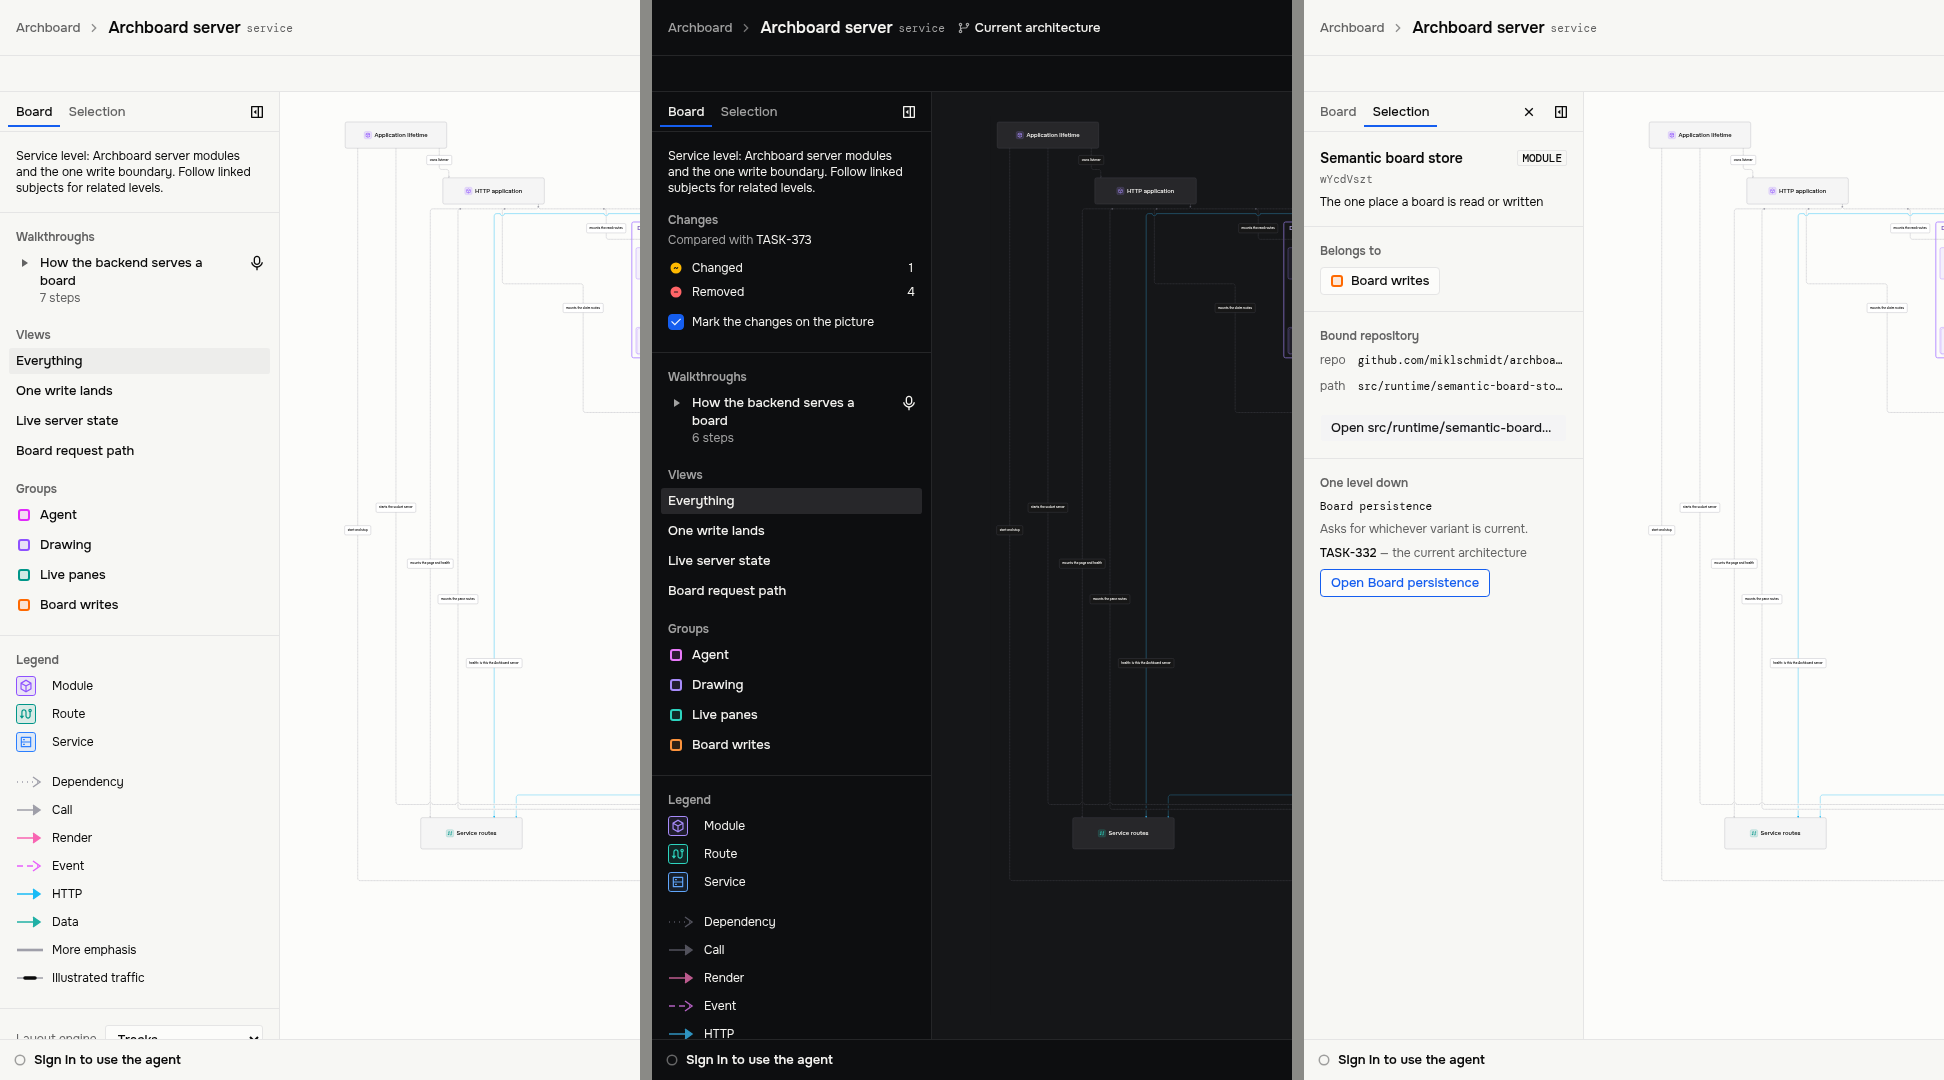
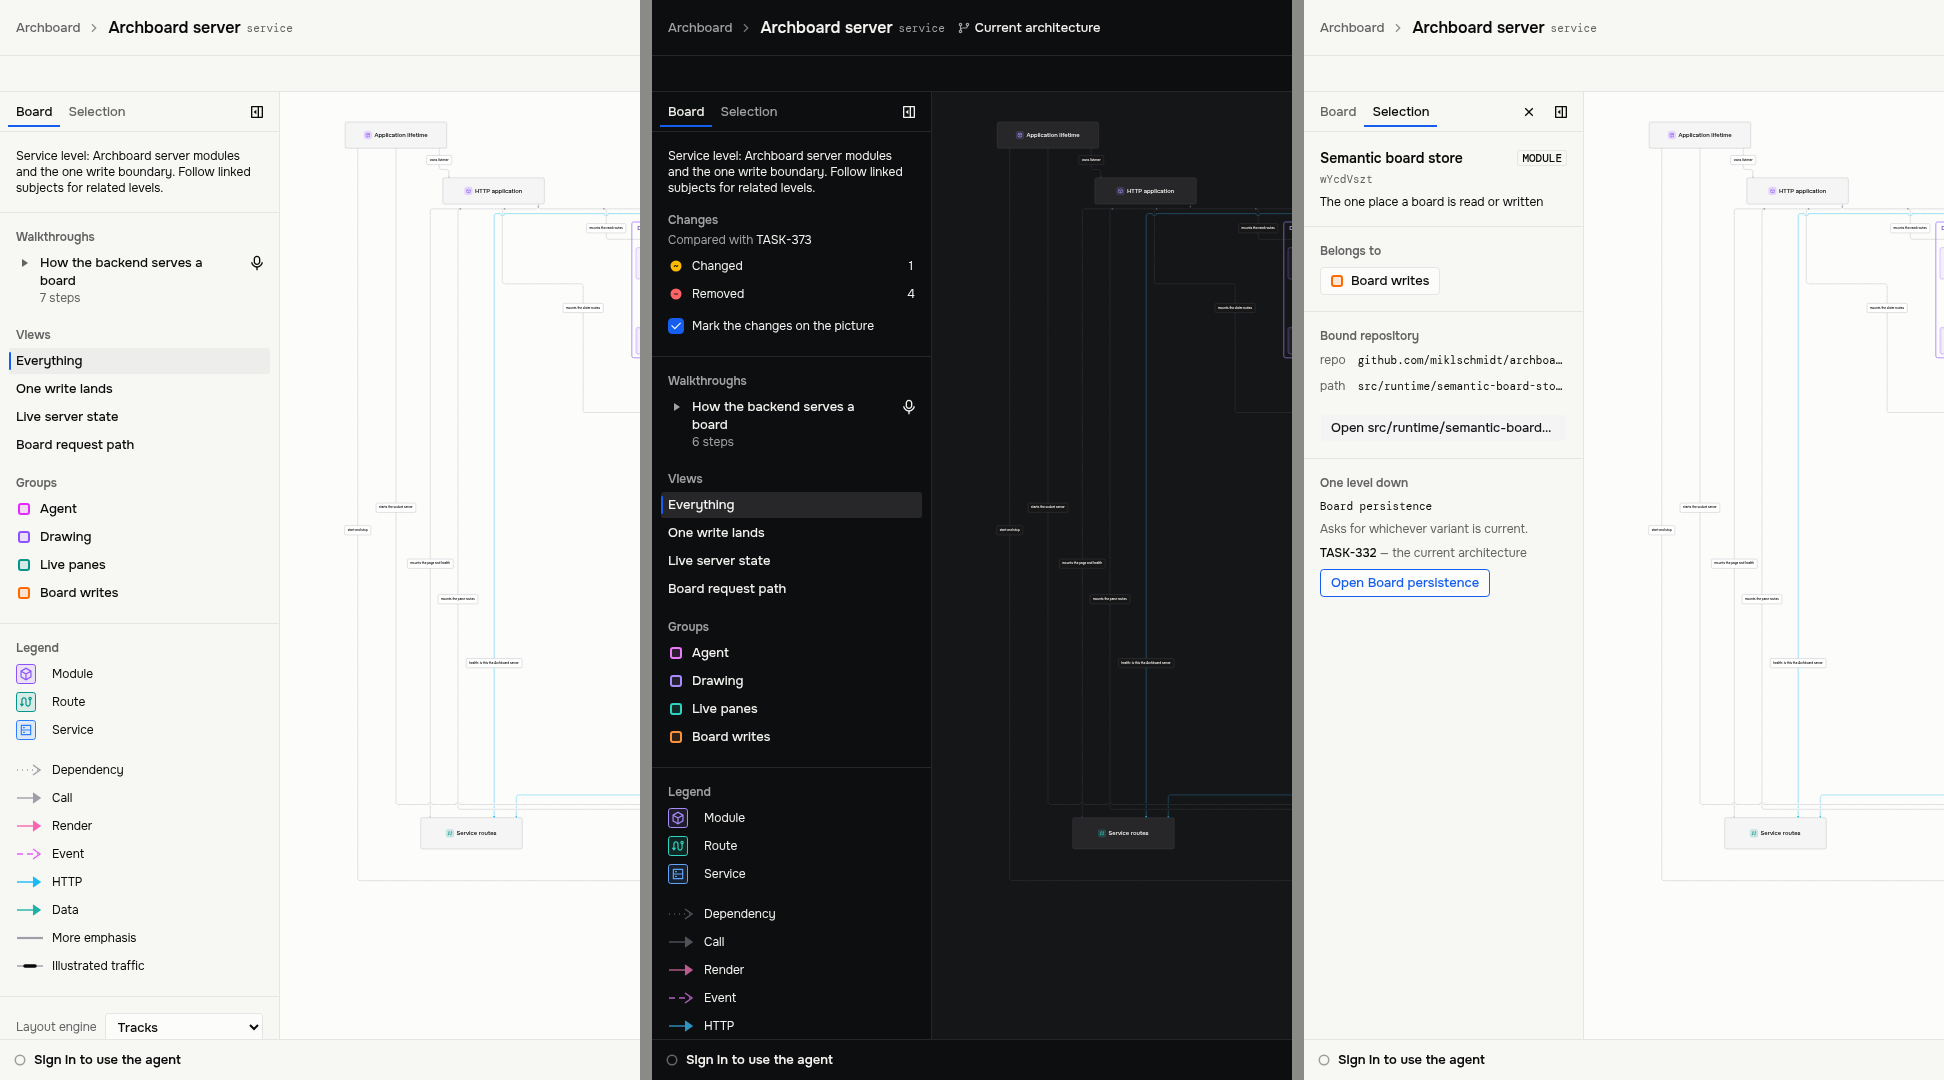
docs(design): show the board tab before and after on the dogfood vault, and state its row and chosen rules (TASK-383)
The study carries the dogfood before and after in both themes, and both
documents say that every row is 28 px, that the choice on screen takes the
reading tone and a cobalt bar while hover takes half the tone, and that no
section heading is a small uppercase label. The kicker role's comment and
the reason the view summaries come from the board document are written
where they live.

diff --git a/src/ui/theme/app.css b/src/ui/theme/app.css
@@ -44,9 +44,12 @@
 	--font-heading: var(--font-sans);
 	--tracking-wordmark: -0.02027027027em;
 	/* Type roles (TASK-150.08). Chrome uses only the first six sizes; a drawn
-	   board keeps its own. kicker: section labels. technical: identifiers, paths,
-	   versions, counts and times, always in the mono face. body: prose and row
-	   labels. control: buttons, tabs, fields. title: region and dialog titles.
+	   board keeps its own. kicker: the line over a presented walkthrough's step
+	   heading that says where the step is; no section heading uses it
+	   (TASK-383). technical: identifiers, paths, versions, counts and times,
+	   always in the mono face. body: prose and row labels, and a section
+	   heading in semibold. control: buttons, tabs, fields. title: region and
+	   dialog titles.
 	   board: the board name in the header (named so it cannot collide with
 	   the text-primary colour utility). presentation (TASK-250): a presented
 	   walkthrough's step heading, set in the picture's frame, not the chrome. */

diff --git a/src/ui/semantic-board-canvas/lib/board-document.ts b/src/ui/semantic-board-canvas/lib/board-document.ts
@@ -306,7 +306,14 @@ interface OfferedVariant {
 interface VariantReading {
 	/** Every variant of the board, in the order the board states them. */
 	readonly variants: readonly OfferedVariant[];
-	/** Every view of the board, with what each answers, in the order the board states them. */
+	/**
+	 * Every view of the board, with what each answers, in the order the board
+	 * states them. The board tab reads a view's summary here rather than from the
+	 * render answer: the answer's view is the same shape the `semantic render`
+	 * and `semantic rasterize` receipts print, and a sidebar line is no reason to
+	 * change what those commands answer. The document is read for the
+	 * variant's narrative anyway, so the summary costs no request.
+	 */
 	readonly views: readonly SemanticView[];
 	/** The one this pane is showing, or null when the board has no such variant. */
 	readonly showing: OfferedVariant | null;

diff --git a/docs/design/pane-sidebar-hierarchy.md b/docs/design/pane-sidebar-hierarchy.md
@@ -261,16 +261,21 @@ Spacing uses a 4 px scale: 4, 8 and 16 px.
   from its right edge. Headings, the summary, the text of every row, every
   sample and the engine's label start on that line. So does the text of the
   tab labels, which today starts at 8 px.
-- A row's hover and pressed fill reaches 8 px past the text column on either
-  side, so the text does not move when the fill appears. The fill is the
-  sidebar accent that the navigator marks its rows with. The secondary fill
-  it replaces differs from the light sidebar by less than 1 % in lightness, so
-  in the light theme the view on screen was hard to see.
+- A choice's fill reaches 8 px past the text column on either side, so the
+  text does not move when the fill appears. The choice on screen takes the
+  reading tone and a cobalt bar at its edge, as the navigator's selected row
+  does. A choice under the pointer takes half the reading tone and no bar, so
+  it never looks chosen. The secondary fill this replaces differs from the
+  light sidebar by less than 1 % in lightness, so in the light theme the view
+  on screen was hard to see.
 - A region has 16 px above and below its content. Sections in one region are
   16 px apart. A heading is 4 px above its first row.
-- A row of choices, and a row of the legend, is at least 28 px high. A row
-  of the change key is 24 px high. A long name wraps rather than being cut
-  off.
+- Every row is at least 28 px high: a choice, a row of the change key, a row
+  of the legend and a variant that is said rather than offered. Its first line
+  is 18 px, set 5 px from its top, which is how 28 px holds one line; that 5 px
+  follows from the row and the line, so it is the one length off the scale.
+  Rows of one list touch, with no space between them. A long name wraps
+  rather than being cut off.
 - A mark before a label sits in a slot of fixed width, and the label starts
   8 px after the slot. The 12 px marks of the walkthroughs, the groups and the
   changes, and the change control's 16 px box, have a 16 px slot, so their
@@ -286,11 +291,23 @@ Spacing uses a 4 px scale: 4, 8 and 16 px.
 | One variant, on a board reached by drill-down   | One plain variant row, not a control.                                                                                                                      |
 | The current variant                             | No Changes section: there is nothing to read it against.                                                                                                   |
 | A proposal identical to what it is read against | The Changes section says so, with no rows and no control.                                                                                                  |
+| A view in which nothing differs                 | The Changes section says that nothing in this view differs and keeps the control: the counts are of what the picture draws, and the change is elsewhere.   |
 | Marks hidden                                    | The Changes heading, the "against" line and the control. No rows.                                                                                          |
 | Many groups or kinds                            | The list grows. The tab scrolls under its fixed tab row.                                                                                                   |
 | A long name or summary                          | It wraps. Nothing is cut off.                                                                                                                              |
 | A data-flow view                                | The legend keys the participants' kinds. Messages carry no kind today, so the relationship rows and the two line samples are absent.                       |
 | A board nobody has built                        | The tab speaks for the draft that the board's bare name opens, as the picture does. Before TASK-383 it read no variant there and showed nothing of it.     |
+
+## Before and after
+
+![The Board tab of Archboard on the dogfood vault before and after TASK-383:
+light before, light after, dark before, dark after](assets/pane-sidebar-before-after.png)
+
+The board `Archboard` of the dogfood vault, at 1920×1080, cut to the
+sidebar. From the left: before and after in the light theme, then before and
+after in the dark theme. The pane sidebar section of
+[operator-canvas-shell.md](operator-canvas-shell.md) shows the result on a
+board with views and changes.
 
 ## Sources
 

diff --git a/docs/design/operator-canvas-shell.md b/docs/design/operator-canvas-shell.md
@@ -95,7 +95,9 @@ inspector (`SIDEBAR_WIDTH`, 280 px) and two tabs:
      board's own statement of its scope. On a variant read against another,
      the changes: which variant it is compared with, one row for each standing
      that occurs with the pin the picture draws and how many subjects stand
-     so, and the control that marks the changes on the picture.
+     so, and the control that marks the changes on the picture. The counts are
+     of what the picture draws, so a view in which nothing differs says so of
+     the view and keeps the control.
   2. **How do I read it?** The walkthroughs, each with its number of steps and
      Narrate beside it. Choosing one presents it (see below). Then the views,
      with Everything first and the summary of the view on screen under its
@@ -117,11 +119,12 @@ inspector (`SIDEBAR_WIDTH`, 280 px) and two tabs:
 
 Both tabs share one frame. Text starts 16 px from either edge of the sidebar,
 and so do the tab labels. A section heading is 12 px semibold in the muted
-colour and in sentence case. The sidebar has no small uppercase labels. A
-choice is a row at least 28 px high whose fill reaches 8 px past the text, in
-the sidebar accent that the navigator marks its rows with. A long name wraps
-rather than being cut off. The spacing steps are 4, 8 and
-16 px.
+colour and in sentence case. No section heading is a small uppercase label.
+Every row is at least 28 px high, and a long name wraps rather than being cut
+off. A choice's fill reaches 8 px past its text. The choice on screen takes the
+reading tone and a cobalt bar, as the navigator's selected row does. A row
+under the pointer takes half the reading tone and no bar, so it never looks
+chosen. The spacing steps are 4, 8 and 16 px.
 
 Picking something out opens the selection tab. Letting go gives back the tab
 that was open before. The sidebar keeps its width whichever tab is open, so a
